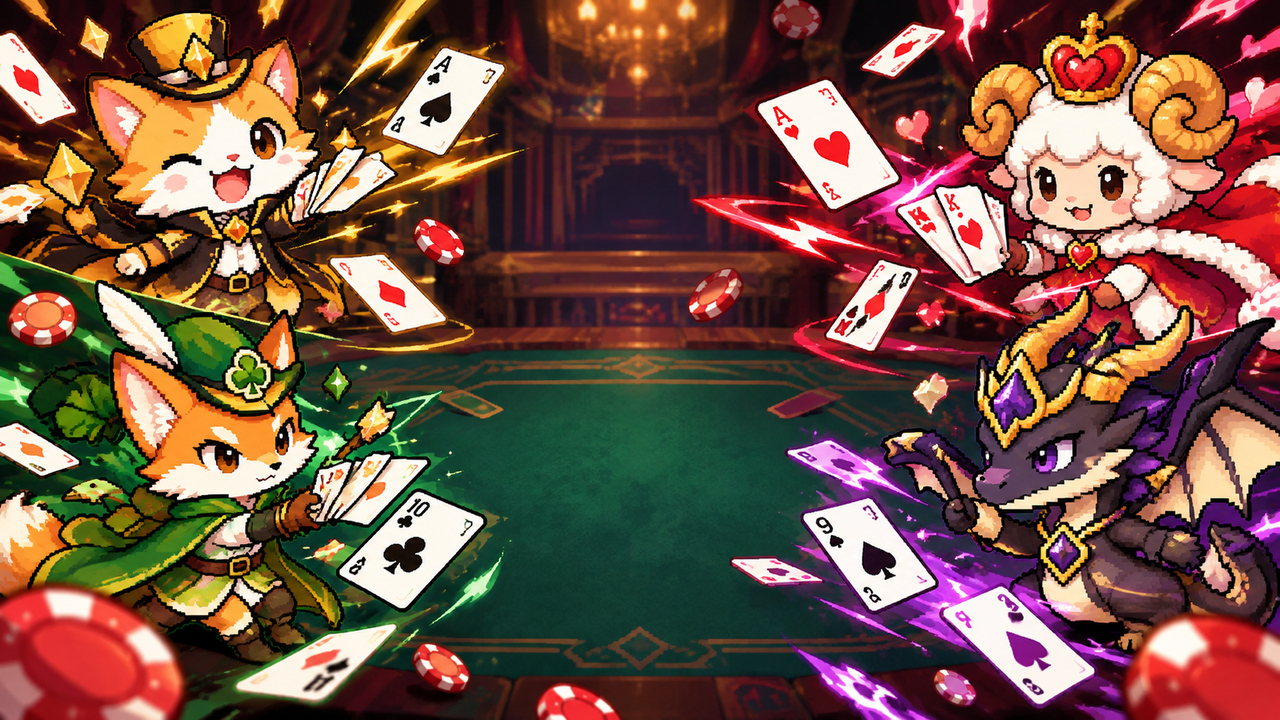
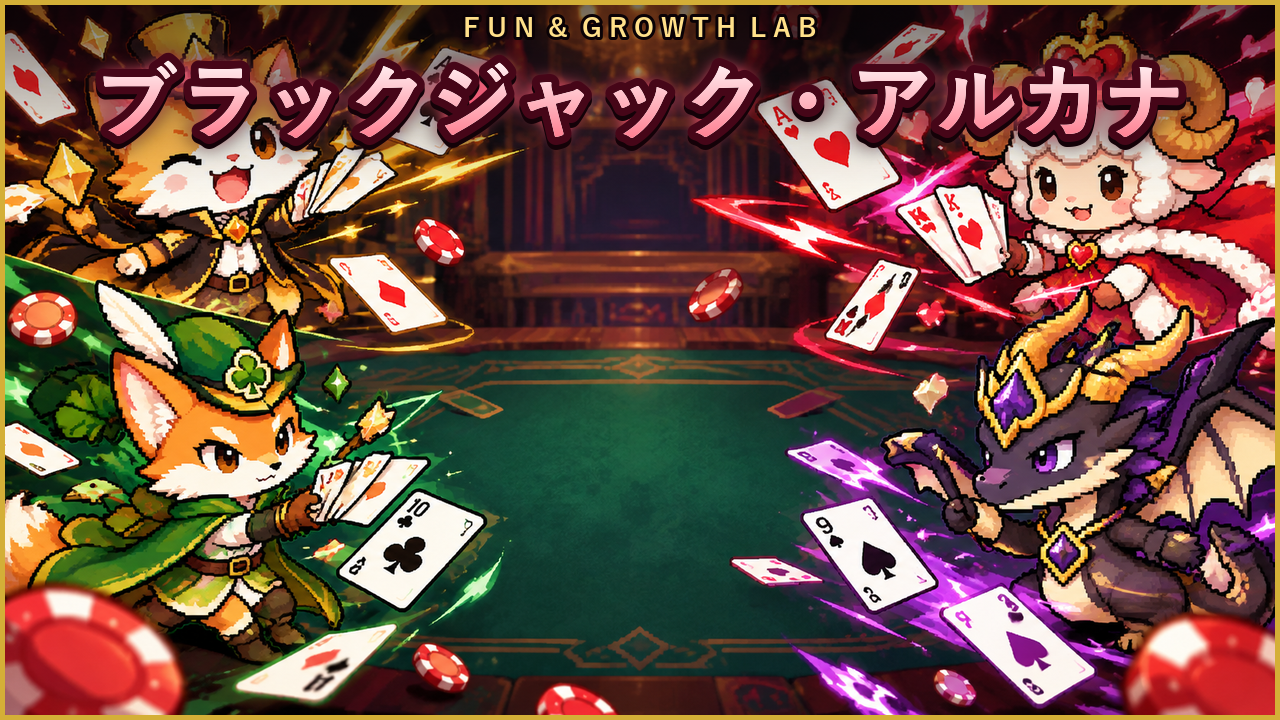
INDEX: ブラックジャック・アルカナのサムネにゲーム名とFUN & GROWTH LABを入れ直す

Changed region(s): [[0.0, 0.0, 1.0, 1.0]]

diff --git a/index.html b/index.html
@@ -1224,7 +1224,7 @@
                 <span class="mini-tag" data-i18n="tag_gr4">4年生〜</span>
             </div>
             <a href="BlackjackArcana/index.html" class="media-container">
-                <img src="images/BlackjackArcana.png?v=20261017" alt="ブラックジャック・アルカナ">
+                <img src="images/BlackjackArcana.png?v=20261018" alt="ブラックジャック・アルカナ">
             </a>
             <div class="start-btn-area">
                 <a href="BlackjackArcana/index.html" class="play-btn">ゲームスタート ▶</a>
